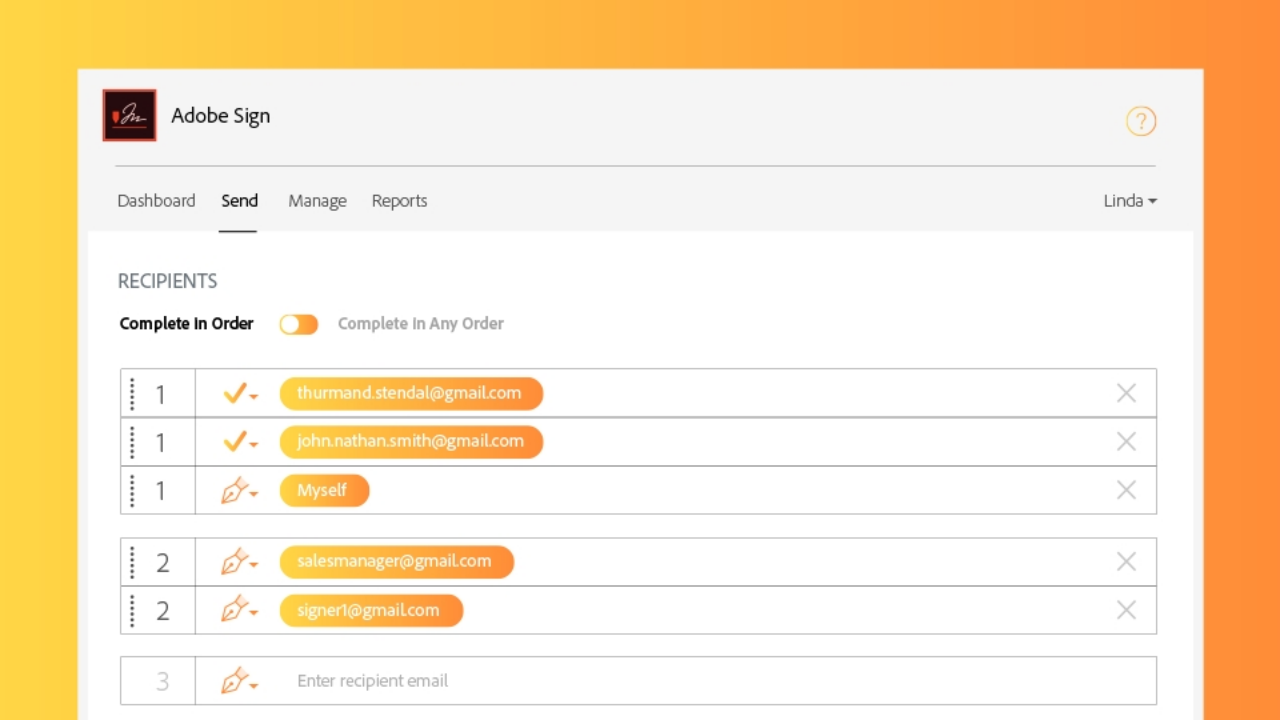
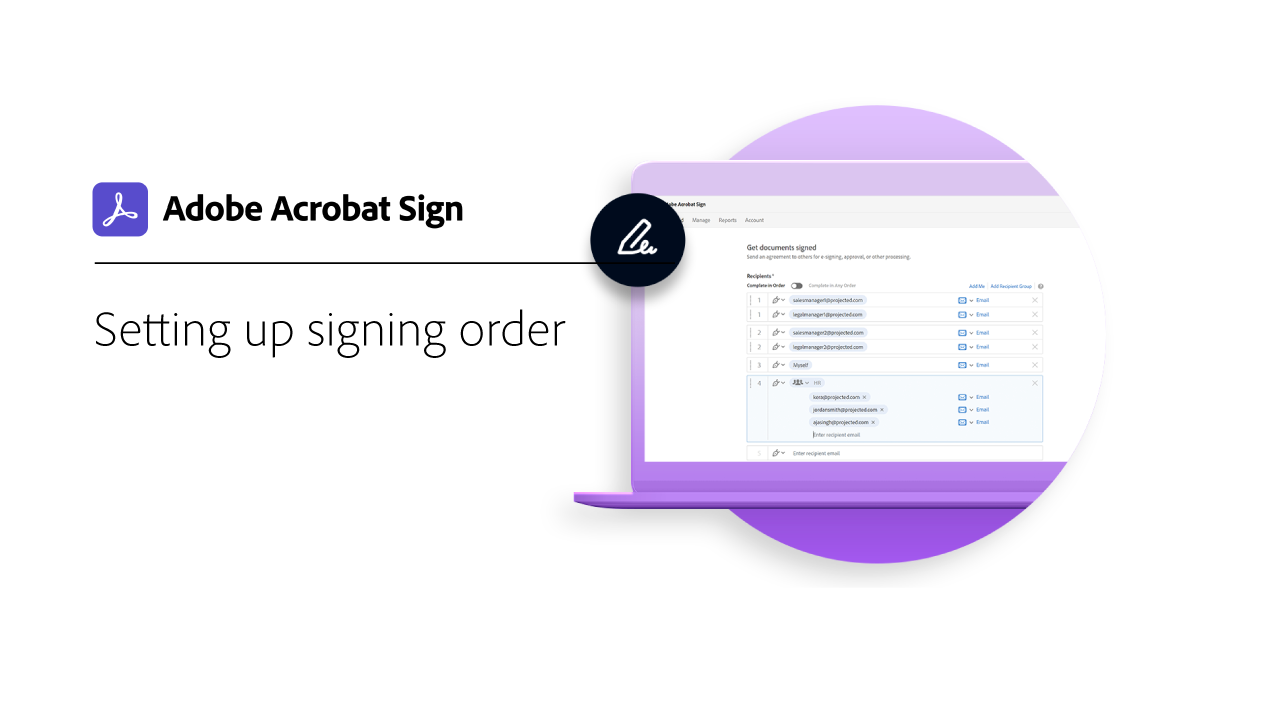
Routing tutorial

diff --git a/help/sign/sign-advanced-users/setting-up-routing.md b/help/sign/sign-advanced-users/setting-up-routing.md
@@ -1,19 +1,19 @@
 ---
-title: Setting up Routing Order
-description: Learn how to set up the routing order for multiple signers
+title: Setting up Signing Order
+description: Learn how to set up the signing order for multiple signers
 role: User
 product: adobe sign
 solution: Acrobat Sign
 level: Intermediate
-thumbnail: 17347.jpg
+thumbnail: KT-9942.jpg
 exl-id: bf7771ef-1abe-423c-8b0f-ebdee555b53a
 ---
-# Setting up routing order
+# Setting up signing order
 
-Learn how to set up the routing order for multiple signers. Send a document in sequence, in parallel, or a combination of the two.
+Learn how to set up the signing order for multiple signers. Send a document in sequence and/or parallel, or to specific groups of individuals. 
 
 >[!NOTE]
 >
->Hybrid routing is only available for Enterprise-level plans.
+>Hybrid routing is only available for enterprise-level plans. You may need to contact your Acrobat Sign administrator to enable specific settings covered in this tutorial.
 
->[!VIDEO](https://video.tv.adobe.com/v/17347?hidetitle=true)
+>[!VIDEO](https://video.tv.adobe.com/v/342249?hidetitle=true)

diff --git a/help/sign/TOC.md b/help/sign/TOC.md
@@ -33,7 +33,7 @@ breadcrumb-title: Acrobat Sign Tutorials
 + Advanced tasks {#advanced-tasks}
   + [Overview](sign-advanced-users/advanced-users-overview.md)
   + Sending {#advanced-tasks-sending}
-    + [Setting up routing order](sign-advanced-users/setting-up-routing.md)
+    + [Setting up signing order](sign-advanced-users/setting-up-routing.md)
     + [Delegating to someone else](sign-advanced-users/delegate-signature.md)
     + [Adding an Approver](sign-advanced-users/add-an-approver.md)
     + [Collecting signatures in bulk](https://experienceleague.adobe.com/docs/document-cloud-learn/sign-learning-hub/admin-set-up/getting-started-admin/megasign.html)      

diff --git a/help/sign/sign-advanced-users/advanced-users-overview.md b/help/sign/sign-advanced-users/advanced-users-overview.md
@@ -20,12 +20,12 @@ Learn how to send a document out for signature to 100s of recipients at once, se
 <tr>
   <td>
     <a href="setting-up-routing.md">
-      <img alt="Setting up routing order" src="../assets/Routing.png">
+      <img alt="Setting up signing order" src="../assets/Routing.png">
     </a>
     <div>
-    <a href="setting-up-routing.md"><strong>Setting up routing order</strong></a>
+    <a href="setting-up-routing.md"><strong>Setting up signing order</strong></a>
     </div>
-    <em>Set up the routing order for multiple signers</em>
+    <em>Set up the signing order for multiple signers</em>
     <br>
   </td>
   <td>
